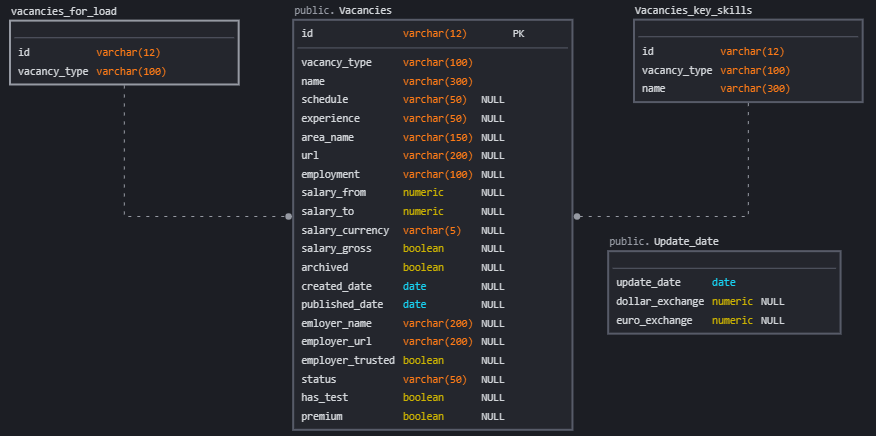
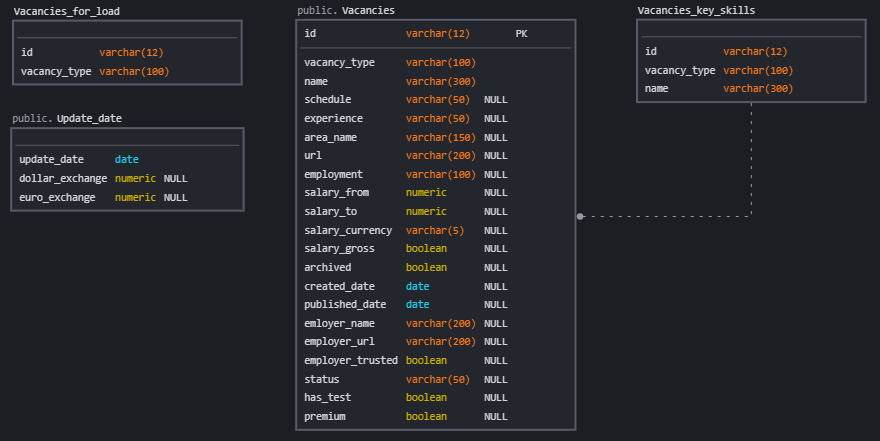
readme

diff --git a/README.md b/README.md
@@ -1,12 +1,20 @@
 # Анализ вакансий. Краткая документация.
 
-Для хранения полученных с HH данных понадобится база данных Postgres.
+<code>[Документация по API HH](https://github.com/hhru/api)
+
+Для хранения полученных с HH данных понадобится база данных.
 Схема БД:
 
 <code>![DB Scheme](https://github.com/timurborisevich/Vacancy-analysis/blob/master/DB_scheme.PNG "")</code>
 
+1. Таблица "Vacancies_for_load" содержит список id вакансий, по которым далее будут выполняться точечные запросы. 
+Заполняется на первой итерации.
+2. Таблица "Vacancies" - основная таблица для анализа. Содержит список вакансий c загруженными параметрами.
+3. Таблица "Vacancies_key_skills" содержит список ключевых навыков по каждой вакансии. 
+Связь записей между таблицами "Vacancies" и "Vacancies_key_skills" = 1 ко многим.
+4. Таблица "Update_date" содержит только 1 строку с датой обновления данных и курсами валют.
 
-<code>[Документация по API HH](https://github.com/hhru/api)
+Скриншоты получившихся дашбордов:
 
 <code>[Power BI](https://github.com/timurborisevich/DataLearn/blob/main/Module_03/DataLearn.pbix "")</code>
 
